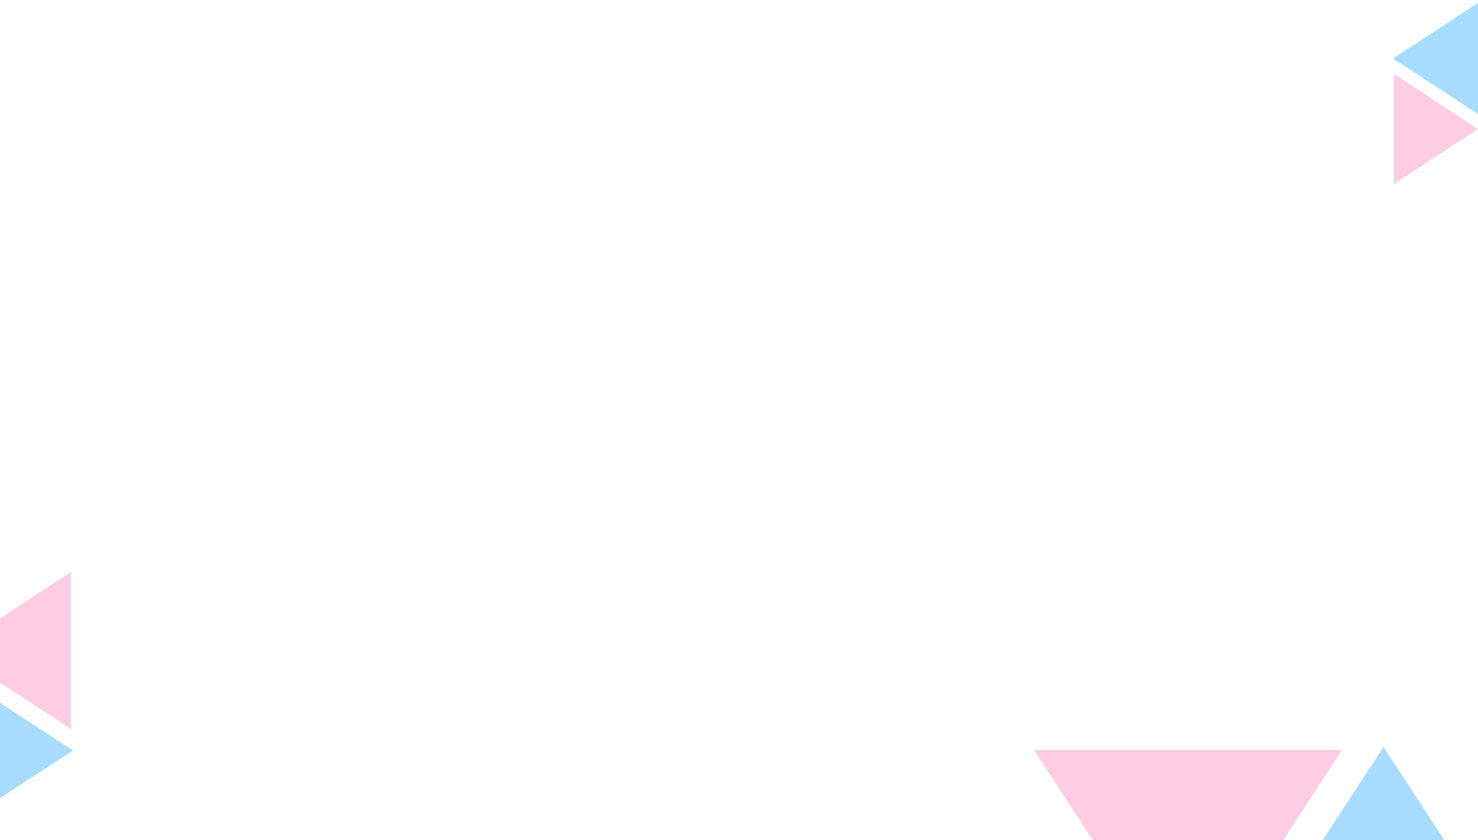
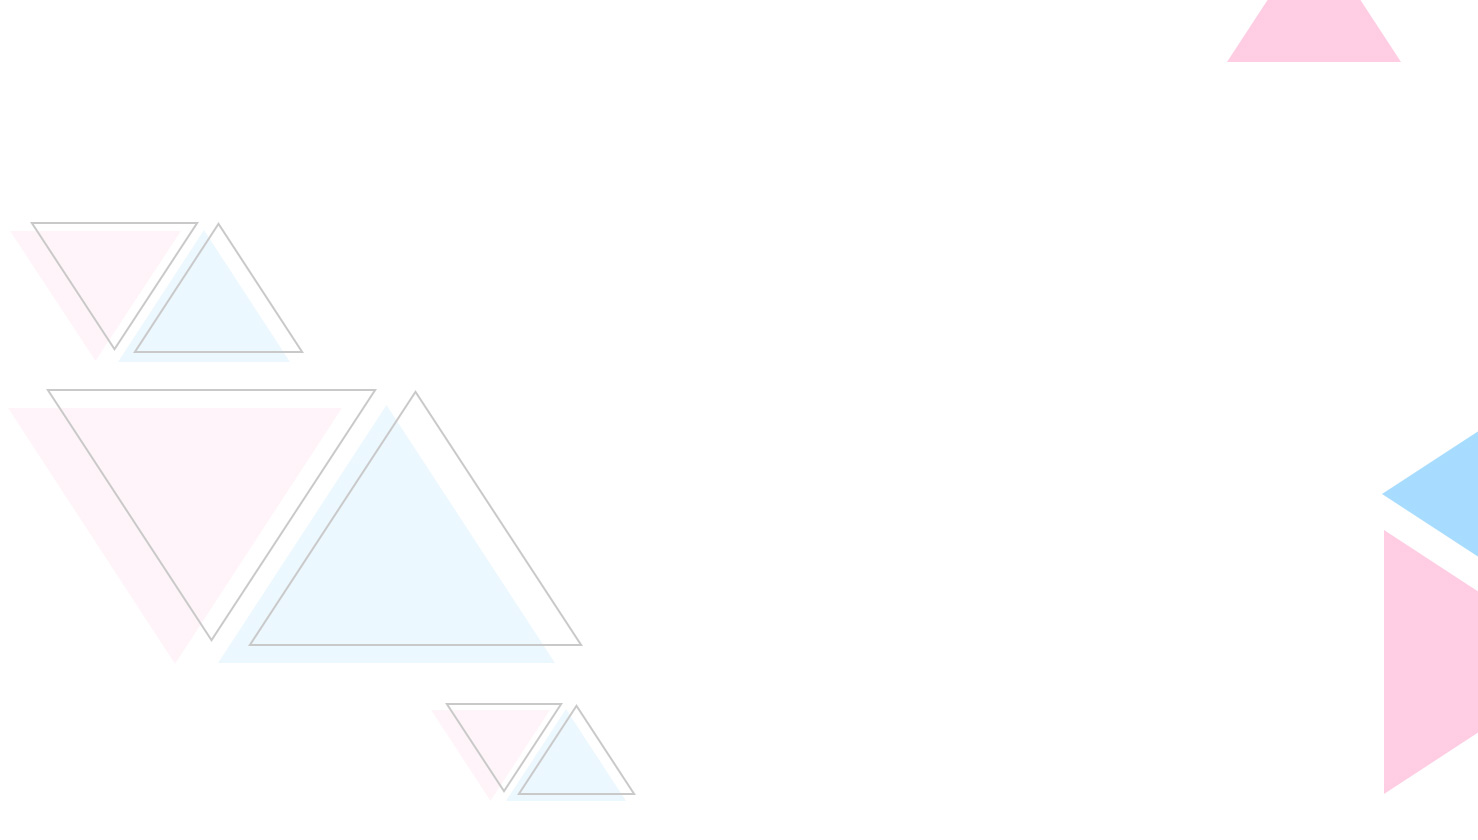
Modify some text size and background

diff --git a/src/components/features/home/components/MissionComponent/index.tsx b/src/components/features/home/components/MissionComponent/index.tsx
@@ -1,6 +1,6 @@
 import { Container, Grid, Stack, Typography } from "@mui/material";
 import { MissionCard } from "./MissionCard";
-import missionBackground from "../../../../../../public/mission-background.jpg";
+import ktcbBackground from "../../../../../../public/mission-background.jpg";
 
 type MissionProps = {
   missionCartData: {
@@ -14,20 +14,21 @@ export const MissionComponent: React.FC<MissionProps> = ({
   missionCartData,
 }) => {
   return (
-    <Container
-      sx={{
+    <Container sx={{
         maxWidth: "1900px !important",
-        paddingBottom: 8,
-        backgroundImage: `url(${missionBackground.src})`,
+        paddingTop: 7,
+        paddingBottom: 12,
+        backgroundImage: `url(${ktcbBackground.src})`,
         backgroundSize: "100% 100%;",
         backgroundPosition: "center",
-      }}
-    >
+      }}>
       <Stack alignItems="center">
-        <Typography variant="h4" fontWeight="bold">SỨ MỆNH RA ĐỜI VÀ HOẠT ĐỘNG</Typography>
+        <Typography variant="h3" fontWeight="bold">
+          SỨ MỆNH RA ĐỜI VÀ HOẠT ĐỘNG
+        </Typography>
       </Stack>
 
-      <Grid container spacing={2} my={0} sx={{ justifyContent: "center" }}>
+      <Grid container spacing={5} my={1} sx={{ justifyContent: "center"}}>
         {missionCartData.map((mission, index) => (
           <Grid item xs={12} md={6} lg={4} key={index}>
             <MissionCard key={mission.title} missionCard={mission} />

diff --git a/src/components/features/home/components/MissionComponent/MissionCard/index.tsx b/src/components/features/home/components/MissionComponent/MissionCard/index.tsx
@@ -12,7 +12,7 @@ export const MissionCard: React.FC<MissionCardProps> = ({ missionCard }) => {
       elevation={1}
       sx={{
         borderRadius: "10px",
-        boxShadow: "0px 2px 4px rgba(0, 0, 0, 0.2)",
+        boxShadow: "4px 4px 4px rgba(0, 0, 0, 0.1)",
         height: "100%",
         position: "relative",
       }}
@@ -25,7 +25,7 @@ export const MissionCard: React.FC<MissionCardProps> = ({ missionCard }) => {
             alt="banner"
           /> */}
           <Box
-            height="100px"
+            height="170px"
             component="img"
             src={missionCard.imageUrl}
             alt="mission-image"
@@ -36,11 +36,11 @@ export const MissionCard: React.FC<MissionCardProps> = ({ missionCard }) => {
           ></Box>
         </Stack>
 
-        <Box sx={{ padding: 1 }}>
+        <Box sx={{ padding: 2 }}>
           <Typography variant="h5" textAlign="center" fontWeight="bold">
             {missionCard.title}
           </Typography>
-          <Typography mt={1} textAlign="center" color="GrayText">
+          <Typography mt={1} fontSize="22px" textAlign="center" color="GrayText">
             {missionCard.description}
           </Typography>
         </Box>

diff --git a/src/components/features/home/components/ListNews/index.tsx b/src/components/features/home/components/ListNews/index.tsx
@@ -6,6 +6,7 @@ import { Container, Grid, Stack, Typography } from "@mui/material";
 import { NextPage } from "next";
 import { CardNews } from "./CardNews";
 import { useMemo } from "react";
+import ktcbBackground from "../../../../../../public/posts-background.jpg";
 
 interface Props {
   team: string;
@@ -19,10 +20,16 @@ const ListNewsHome: NextPage<Props> = ({ team }) => {
   }, [highlightNews, mediumNews]);
 
   return listNew && listNew?.length > 0 ? (
-    <Container sx={{ maxWidth: "1900px !important" }}>
+    <Container sx={{
+        maxWidth: "1900px !important",
+        paddingTop: 0,
+        backgroundImage: `url(${ktcbBackground.src})`,
+        backgroundSize: "100% 100%;",
+        backgroundPosition: "center",
+      }}>
       <Stack alignItems="center">
-        <Typography variant="h4" fontWeight="bold">
-          BÀI VIẾT GẦN ĐÂY
+        <Typography variant="h3" fontWeight="bold">
+          TIN TỨC GẦN ĐÂY
         </Typography>
       </Stack>
       <Stack

diff --git a/src/components/features/home/components/CoverImageSlide.tsx b/src/components/features/home/components/CoverImageSlide.tsx
@@ -52,7 +52,7 @@ export const CoverImageSlide: React.FC<CoverImageSlideType> = ({
   coverImageData,
 }) => {
   const listImageCard = coverImageData.map((url, index) => (
-    <Box className="relative w-full h-[75vh]" key={`${index}${url}`}>
+    <Box className="relative w-full h-[90vh]" key={`${index}${url}`}>
       <Box component="img" width="100%" height="100%" src={url} />
 
       {/* <img

diff --git a/src/pages/index.tsx b/src/pages/index.tsx
@@ -33,7 +33,7 @@ const Home: NextPage<Props> = ({ quote }) => {
       <Opportunity />
 
       <Stack py={2} alignItems="center">
-        <Typography variant="h5" fontWeight="bold">
+        <Typography variant="h3" fontWeight="bold">
           KHO ẢNH KỶ NIỆM
         </Typography>
       </Stack>
